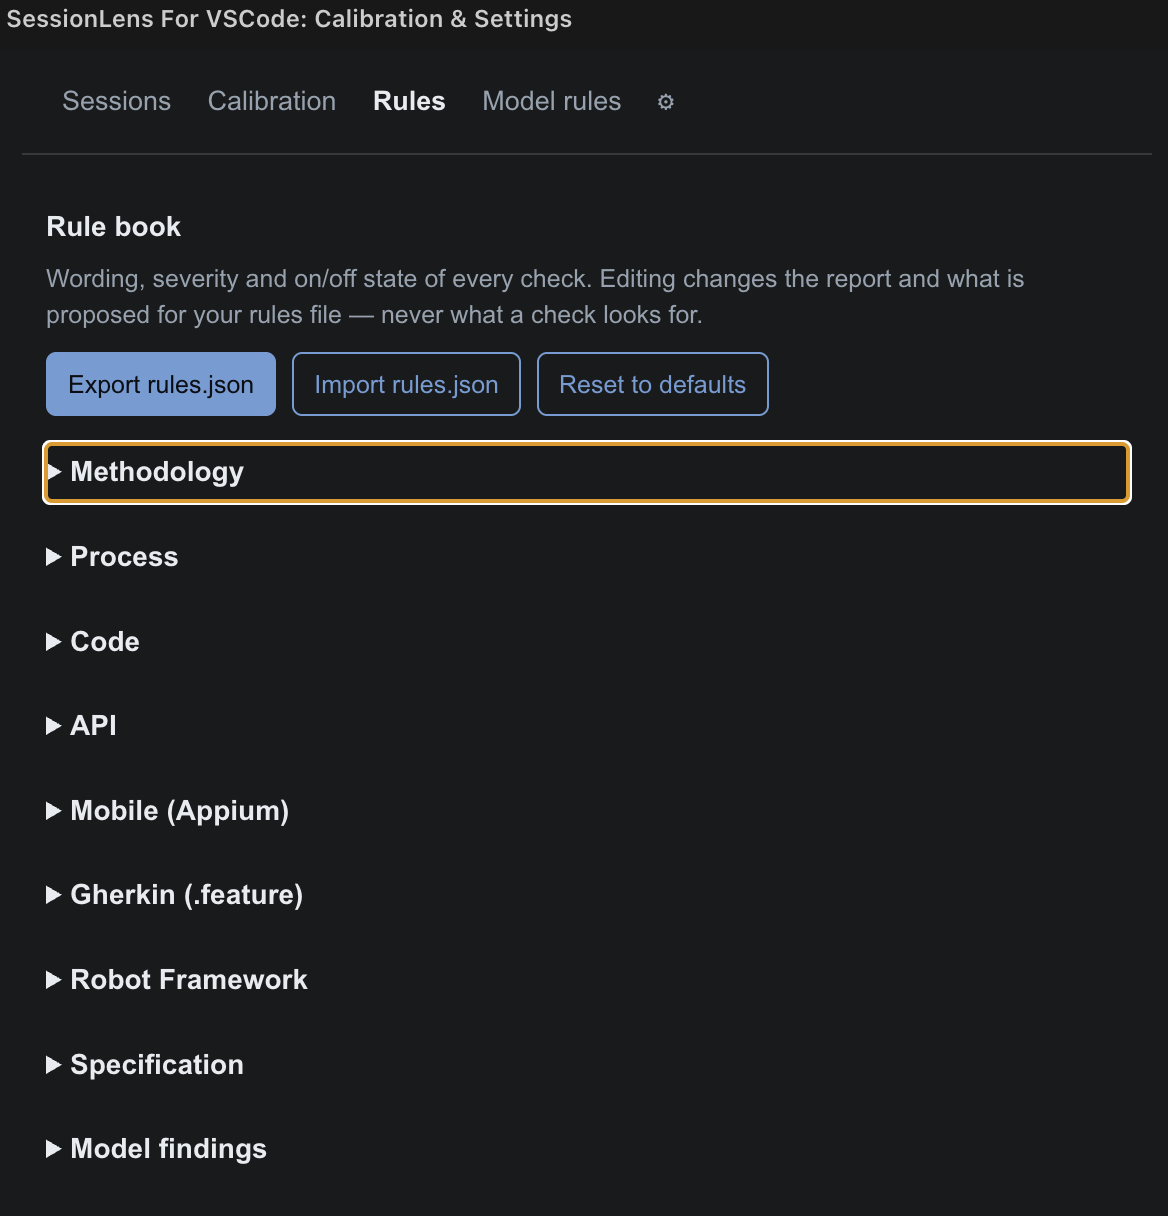
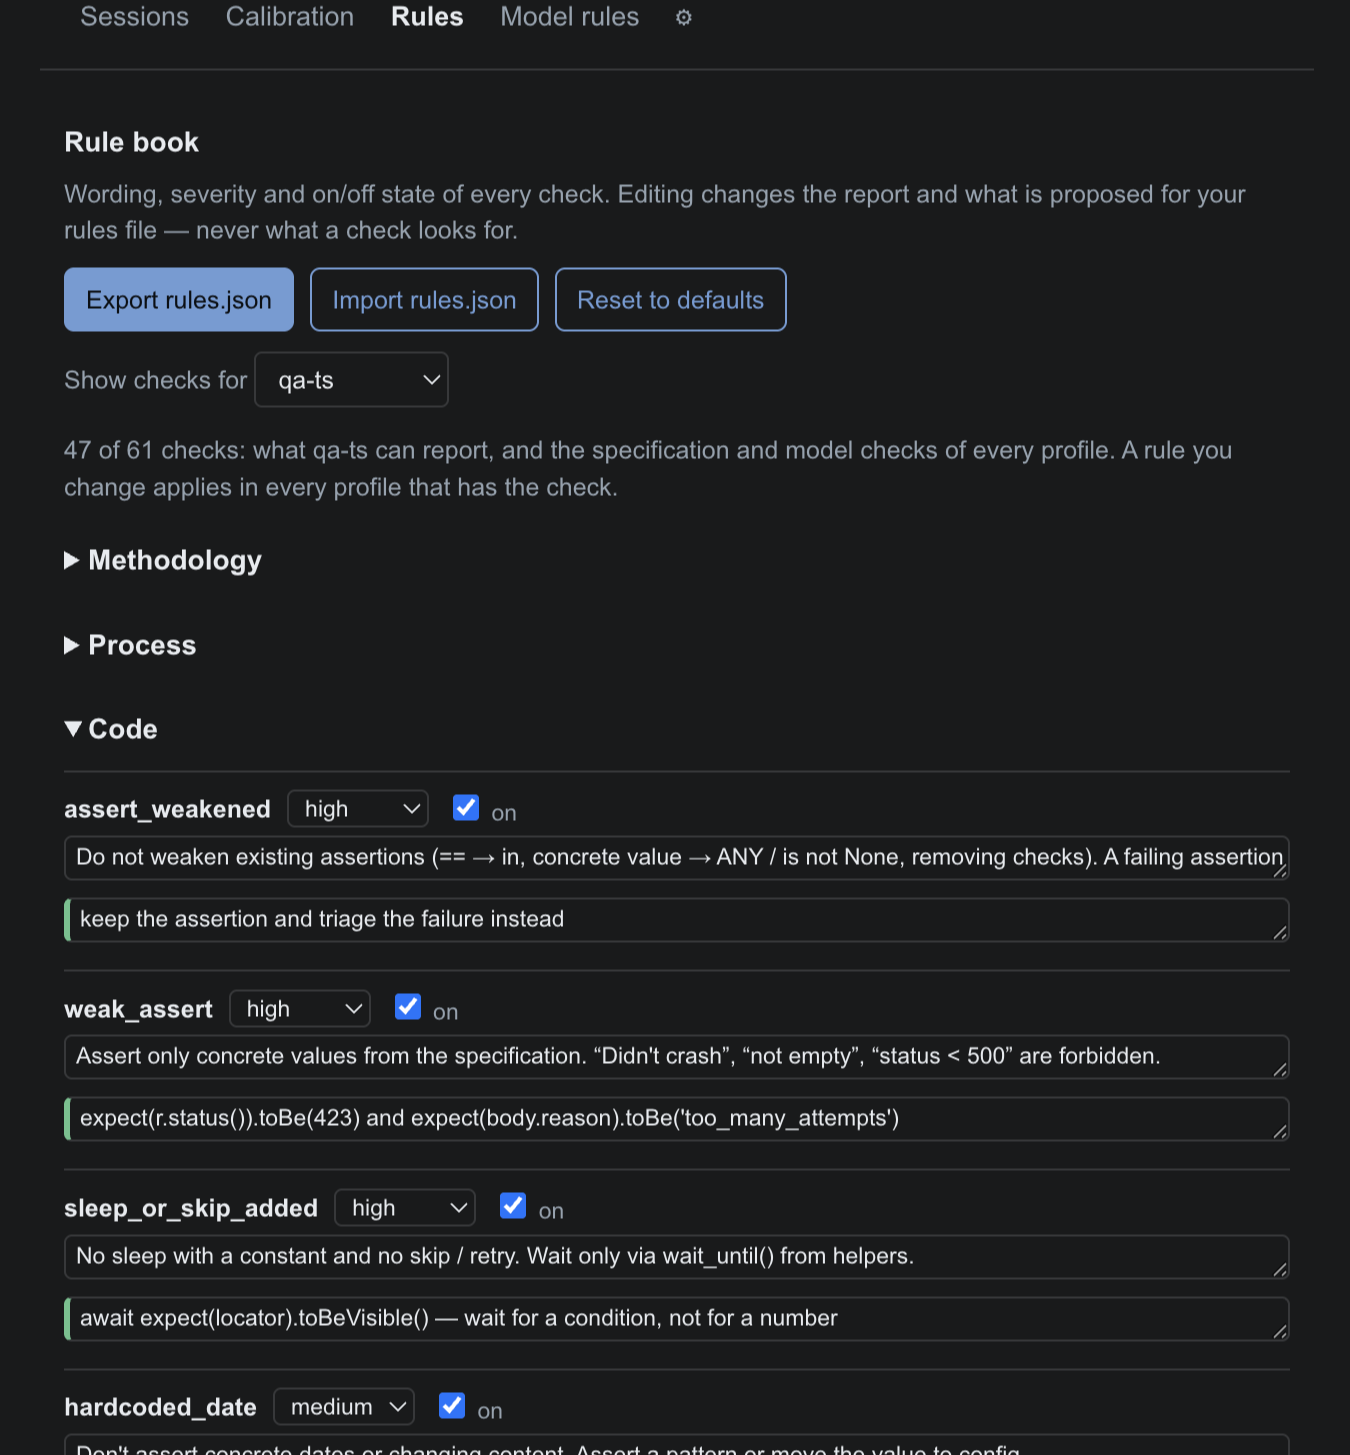
docs: a new screenshot of the Rules tab
The old one predates 0.1.109 (the panel's old title, a focus ring) and
had no Show checks for. The new one shows qa-ts picked and the Code
group open: severity, on/off, rule and good example of each check.

diff --git a/readme.md b/readme.md
@@ -120,7 +120,7 @@ Learning from your verdicts.
 
 ### Rules
 
-![The Rules tab: the rule book, with every check grouped and exportable as rules.json](media/screenshots/rules.png)
+![The Rules tab: Show checks for qa-ts, and the Code group open with each check's severity, on/off, rule and good example](media/screenshots/rules.png)
 
 The rule book. See [the next section](#rules-the-rule-book).
 
